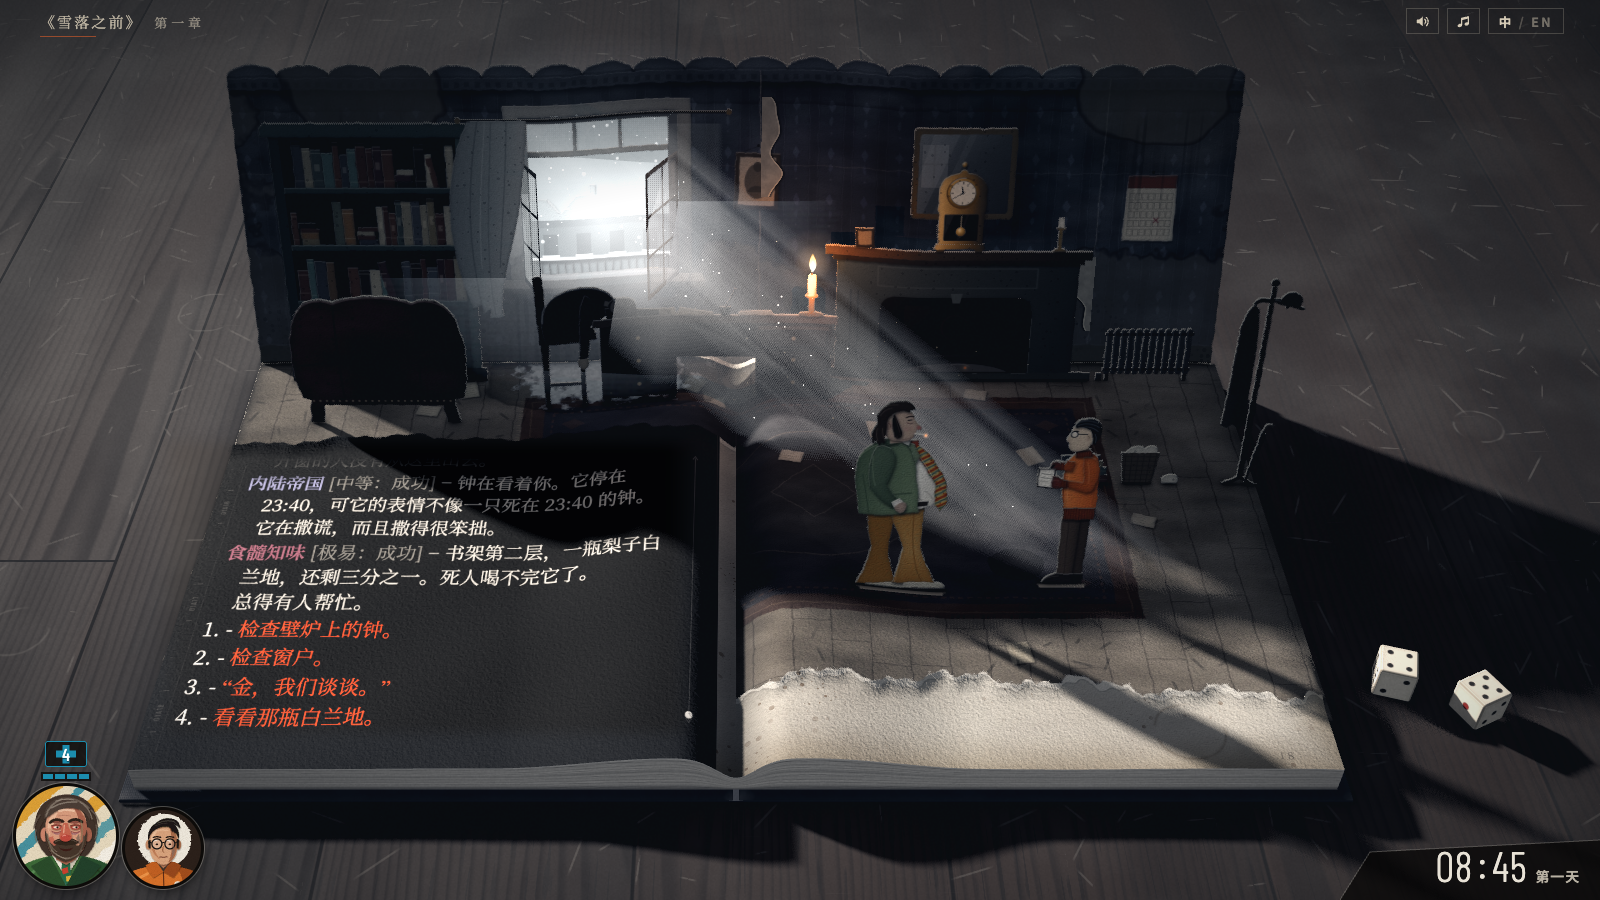
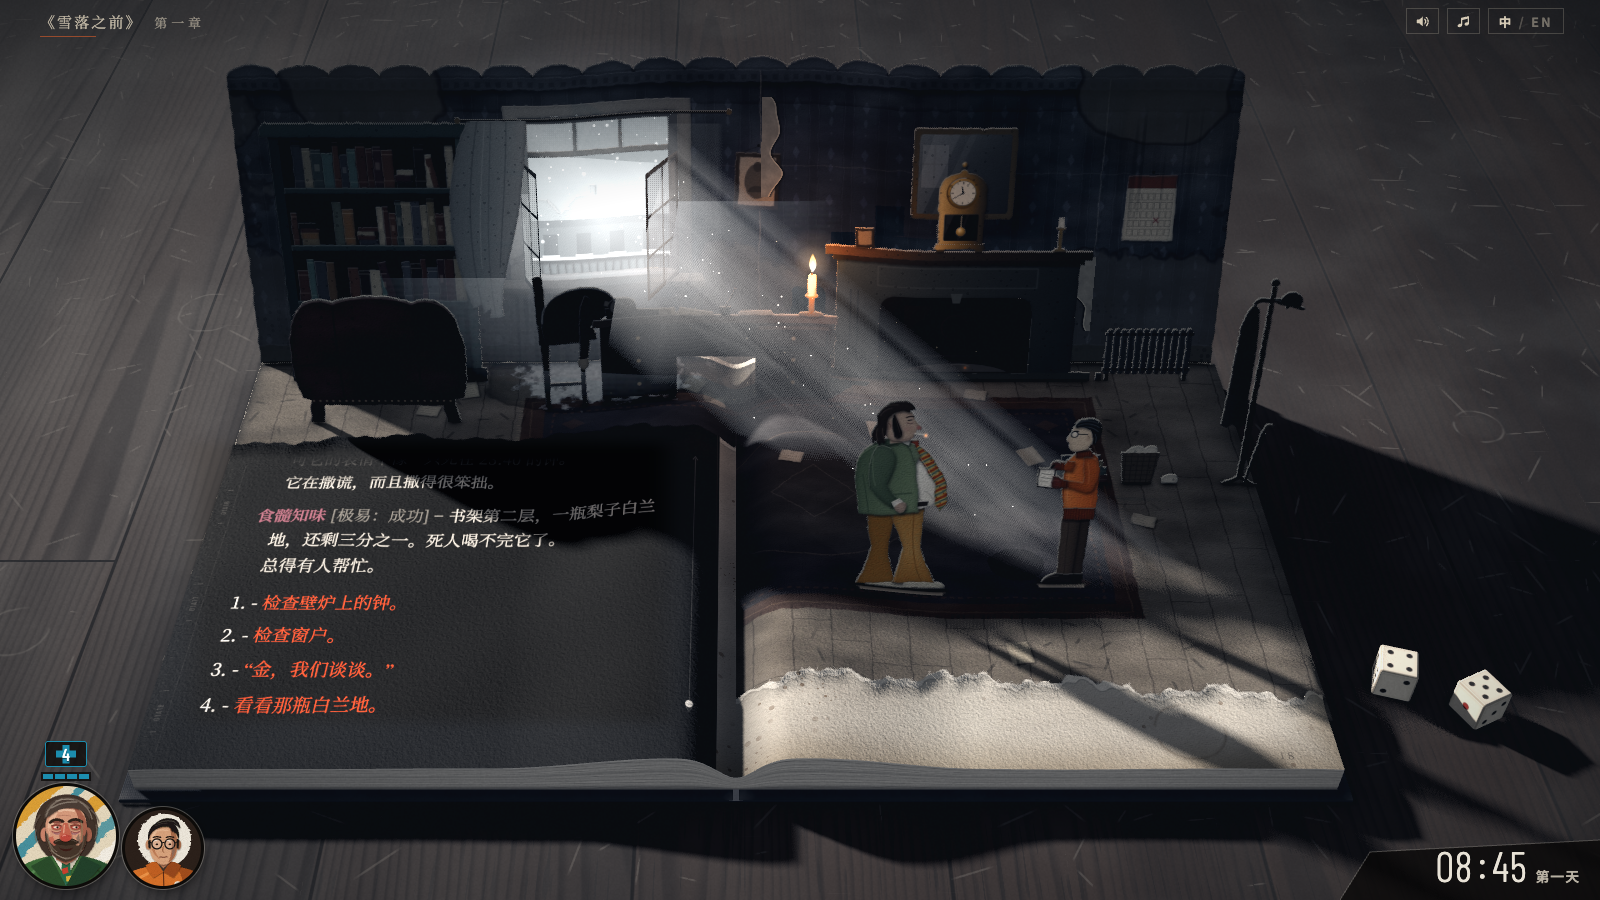
docs: the panel's type and the HUD's corners (ui.md 3.3-3.4), regenerated captures

Changed region(s): [[0.125, 0.5289, 0.4062, 0.8089]]

diff --git a/docs/handoff.md b/docs/handoff.md
@@ -46,9 +46,12 @@
   - 默认参数下画面与此前逐像素一致。
 - 第六轮（用户反馈：「`?look=winter&ui=de` 这个组合还不错，但有几个 UI 似乎没有实际用途。油画直接用在画面上效果并不好」）：
   - 冬日与原作界面改为默认。`?ui=book` 回到书页排法，`?look=warm` 回到暖色绘本，`?look=noir` 为夜；`?still&ui=book&look=warm` 与此前默认的静帧逐像素一致。
-  - HUD 只留本章用得上的部分：头像（说话者）、士气、时钟、技能标签与检定横幅。去掉生命（本章没有生命规则）、角色、物品、思维阁图标（不能点击）、日志图标与线索角标（与桌上线索卡堆重复）、托盘上的胶片编码。原作界面下桌上不再放纸心，士气只显示在 HUD 上：失去时横幅、下降音、格子逐个熄灭；悬停十字框显示士气提示。见 `docs/ui.md` 3.3 节。
+  - HUD 只留本章用得上的部分：头像（说话者）、士气、时钟与检定横幅。去掉生命（本章没有生命规则）、角色、物品、思维阁图标（不能点击）、日志图标与线索角标（与桌上线索卡堆重复）、托盘上的胶片编码。原作界面下桌上不再放纸心，士气只显示在 HUD 上：失去时横幅、下降音、格子逐个熄灭；悬停十字框显示士气提示。见 `docs/ui.md` 3.3 节。
   - 油画后期整体移除（代码、文档与截图），不再作为候选。原因：滤镜盖在整帧上，纸片、文字与桌面一起被涂抹，失去立体书的材质与清晰度。若之后仍要油画感，应画进素材（墙纸、窗外远景等纹理），不要做成整帧后期。
   - `tools/play.mjs` 新增 `--query`，在额外的页面参数下通关（例如 `--query "ui=book&look=warm"`）。
+  - 背景音乐再降约 10 dB（PR #10）。
+  - 深色面板的排版：字号小约一成（中文 22），行距 1.66 倍，两条日志之间空约 0.4 行，文字栏四周的边距加宽（`docs/ui.md` 3.4 节）。
+  - 去掉内心声音标签：用户认为「检定信息在书上弹出看起来不太真实」。平面的 HTML 标签叠在倾斜的书页上，看起来是贴上去的；技能名本来就按属性颜色印在日志里。
 - 本文件第 3–8 节描述合并后的 `main`。
 
 ## 3. 环境与命令
@@ -90,7 +93,7 @@
 | 立体层的铰接行与后倾角 | `src/scene/popup.ts` 的 `PIECES` |
 | 哈里与金的位置、大小 | `src/scene/puppets.ts` 的 `PUPPETS` |
 | 桌面道具（线索卡堆、纸心、骰子） | `src/scene/tabletop.ts` 的 `TABLE`；线索卡落点与尺寸在 `src/scene/lead.ts` 的 `DROP`、`FILED`。纸心只在 `?ui=book` 下出现 |
-| 日志字号与行高 | `src/page/layout.ts` 的 `SIZES`；文字栏范围 `textColumn`；纵向拉伸按取景取 `VIEWS[n].ink`（`src/main.ts` 的 `INK_STRETCH`） |
+| 日志字号与行高 | `src/page/layout.ts` 的 `SIZES`（书页排法）与 `SIZES_DE`（深色面板：字号、行距、段距 `gap`、选项间距 `optionGap`）；文字栏范围与边距 `textColumn`；纵向拉伸按取景取 `VIEWS[n].ink`（`src/main.ts` 的 `INK_STRETCH`） |
 | 打字速度、标点停顿 | `src/play/log.ts` 的 `TYPE_MS`、`PAUSES`；逐段停顿规则在 `src/play/director.ts` |
 | 灯光 | `src/scene/lights.ts`（半球光、左侧主光、蜡烛、窗光、台灯） |
 | 主光软阴影 | `src/scene/penumbra.ts`；光源角半径 `angle`（度）与最大半影 `max`（世界单位）在 `lights.ts` 调用 `softShadows` 处 |
@@ -106,7 +109,7 @@
 | 背景音乐 | 录音 `public/audio/elysium.mp3`；音量 `VOLUME`、回忆时的低通与音量 `COLD`、淡入淡出 `FADE` 在 `src/audio/music.ts`；剧情钩子经 `createCues` 的 `onCue` 回调接入。说明见 `docs/music.md` |
 | 音效 | 配方、音量与混响在 `src/audio/sfx.ts` 的 `createBank`（每个音效一段，按名称 `SoundName` 调用）；触发点：`src/play/log.ts` 的 `onType`（写字）、`src/play/director.ts`（继续、选择、内心声音、检定结果）、`src/scene/dice.ts` 的 `CONTACTS`（骰子落桌）、`hearts.ts`、`lead.ts`、`cues.ts`（纸片、脚步、窗扇、钟、风、蜡烛、钟摆） |
 | 纸偶版本 | `assets/art/harry-vN.svg`、`kim-vN.svg`（与原来的纸偶同样的 `data-*` 属性）；`?cast=N` 在 `src/main.ts` 加载后把 `art.harry`、`art.kim` 换成选中的版本，其余模块不需要改 |
-| 原作界面（默认；`?ui=book` 为书页排法） | 开关 `src/ui.ts`；日志的深色面板排版 `src/page/layout.ts` 的 `DE` 与 `painter.ts`；HUD `src/play/hud.ts`（头像、士气、时钟、技能标签、横幅）、头像 `src/play/portraits.ts`；样式在 `index.html` 的 `[data-ui]` 下；士气显示在 HUD 还是纸心由 `src/main.ts` 的 `morale` 决定。说明见 `docs/ui.md` |
+| 原作界面（默认；`?ui=book` 为书页排法） | 开关 `src/ui.ts`；日志的深色面板排版 `src/page/layout.ts` 的 `DE` 与 `painter.ts`；HUD `src/play/hud.ts`（头像、士气、时钟、横幅）、头像 `src/play/portraits.ts`；样式在 `index.html` 的 `[data-ui]` 下；士气显示在 HUD 还是纸心由 `src/main.ts` 的 `morale` 决定。说明见 `docs/ui.md` |
 | 氛围预设（默认冬日；`?look=noir|warm`） | 预设参数 `src/scene/mood.ts`；光束与浮尘 `shaft.ts`；脏旧 `grime.ts`（各纸片按自身坐标生成污渍）；在剧本指令读取灯光基准值之前生效。说明见 `docs/look.md` |
 | 原作风格预设 | 开关 `src/style.ts`；预设 1 在 `src/page/layout.ts`、`painter.ts`、`src/play/log.ts` 与 `index.html` 的 `data-style` 样式；预设 2 在 `src/scene/palette.ts` 与 `post.ts`；预设 3 在 `src/scene/details.ts`。参考与取舍见 `docs/style-refs.md` |
 
@@ -151,6 +154,8 @@
 | 背景音乐用用户提供的录音 | 用户希望用「Whirling-In-Rags」风格的曲子，由用户自行制作或取得并提供文件。此前的原创合成曲已删除。仓库公开，音频文件随仓库与部署公开 |
 | 默认改为冬日光线与原作界面 | 用户认为此前的画面太温馨、原作风格体现不够；第五轮的候选里选定 `?look=winter&ui=de` |
 | HUD 只放本章用得上的元素 | 用户指出几个 UI 没有实际用途。生命、工具栏、胶片编码没有对应的玩法；士气原先同时显示在纸心与 HUD 上，冬日光下纸心又看不清，改为只在 HUD 上 |
+| 书上不叠加 HUD 元素 | 内心声音标签叠在倾斜的书页上，不随透视与光照变化，用户认为不真实；HUD 只在画面四角 |
+| 深色面板用更小的字与更宽的行距、段距、边距 | 用户要求；此前几轮为了可读性放大过日志，密度偏高 |
 | 不做整帧油画后期 | 用户认为油画直接用在画面上效果不好：滤镜把纸片、文字与桌面一起涂抹，立体书的材质与清晰度都丢了 |
 
 ## 7. 用户偏好
@@ -166,6 +171,8 @@
   - 物件悬停要有提示。
   - 画面不要太温馨，要有原作的冷峻与破败感（第五轮）。
   - 界面上每个元素都要有实际用途，装饰性的 UI 去掉（第六轮）。
+  - 书上不要弹出平面的界面元素：屏幕空间的 HUD 只放画面四角，书上或桌上的信息要印进书页或做成实物（第六轮）。
+  - 日志的字可以小一些，行距、段距、页边距要明显（第六轮）。
   - 不要把油画滤镜直接盖在整帧上（第六轮）。
 - 人物形象、性格与语言风格采用原作。只是 Demo，不考虑版权。
 - 工作流：在分支上开发，开 PR；本地检查（`npm test`、`build`、`shot`、`play`）通过后直接合入 `main`，不停在 PR 等待审阅，由 Vercel 部署。

diff --git a/README.md b/README.md
@@ -33,7 +33,7 @@ npm test         # 对话引擎的单元测试
 
 - **画面**：相机模拟坐在桌前读书：眼睛比桌面高约 47 cm，离书的中心约 64 cm，从书的中心看约 45° 仰角。书前留出一截桌面，桌面木板由近及远，和书的两条侧边汇向同一个消失点。整本书和立体书房完整入画，四周露出胡桃木桌面。左页顶层纸撕到约四分之一深度，撕口后方的地板上立着书架、壁炉、书桌与扶手椅，撕口以下是对话日志。右页顶层纸撕到接近页尾，房间地板一直铺到那里，哈里与金站在房间中央的地毯上。书右侧的桌面上从远到近放着线索卡堆与两枚圆角纸骰。窗外下着雪，雪只在窗洞里可见。
 - **冬日光线**（默认，`docs/look.md`）：低角度的冬日阳光从窗洞射入，带灰尘的光束横过房间，长而硬的蓝灰影落在房间与桌面上；台灯关着，蜡烛是唯一的暖色；降饱和的冷调色，墙纸、地板与桌面有污渍与磨损。`?look=noir` 为夜，`?look=warm` 为此前的暖色绘本。
-- **原作界面**（默认，`docs/ui.md`）：左页日志印在原作的深色对话面板上（白色衬线字、粗体说话者、按属性着色的技能名、检定纸条、青色「继续」条）。画面四周是原作的 HUD，只放本章用得上的：左下哈里与金的圆形头像（说话者的外圈变亮），哈里头像上方是士气的蓝色十字数字框与四格；右下是时钟，现在的时间每出现一行台词前进一分钟，回忆时显示昨晚的时间。技能开口时面板顶边弹出技能名标签，骰子停下时出现「检定成功 / 失败」横幅。`?ui=book` 为此前的书页排法：日志印在纸上，士气是桌上的四颗对折纸心，没有 HUD。
+- **原作界面**（默认，`docs/ui.md`）：左页日志印在原作的深色对话面板上（白色衬线字、粗体说话者、按属性着色的技能名、检定纸条、青色「继续」条），字号较小，行距、段距与边距较宽。画面四周是原作的 HUD，只放本章用得上的：左下哈里与金的圆形头像（说话者的外圈变亮），哈里头像上方是士气的蓝色十字数字框与四格；右下是时钟，现在的时间每出现一行台词前进一分钟，回忆时显示昨晚的时间。骰子停下时，骰子下方出现「检定成功 / 失败」横幅。书上不叠加平面的界面元素。`?ui=book` 为此前的书页排法：日志印在纸上，士气是桌上的四颗对折纸心，没有 HUD。
 - **质感**：窗侧主光的影子在落脚处清晰、随距离变软（PCSS），墙在桌面上的影子是柔和的渐变。立着的纸片都有卡纸厚度，朝上的切边露出一条浅色纸芯。木桌由着色器按世界坐标绘制：木板、年轮、导管与板缝，任何分辨率都清晰。
 - **书页打开**：立体书房先正面朝下折在书页上，露出素色纸背，再由后往前逐排翻起，纸偶最后立起。墙立起时窗扇打开、窗外开始下雪，书桌立起后蜡烛点亮。
 - **日志逐字打出**：中文每字 55 毫秒，英文每字符 28 毫秒；逗号类标点后多停 120 毫秒（英文 80），句末标点后多停 260 毫秒（英文 180）；内心声音在名字后停 0.3 秒。打字时点击补全当前一段。每段打完停下，面板下方出现「继续」条（`?ui=book`：左页右下角闪烁「▼ 继续」），点击、空格或回车进入下一段；玩家自己的「你 —」行、紧接选项的最后一段与掷骰行不停。
@@ -61,7 +61,7 @@ npm test         # 对话引擎的单元测试
 - `src/page/`：`layout` 日志排版（说话者 + 破折号、结果标签、编号选项、置灰与红色检定标记；中文按字断行、避头尾，英文按词；自下而上锚定），`painter` 画布绘制（按取景纵向拉伸，默认 1.21 倍，抵消斜看纸面造成的字形压扁）、逐字显示、滚动窗口与撕口处的淡出，`hit` 射线命中选项。
 - `src/audio/`：`music` 背景音乐（`<audio>` 接入 Web Audio 的音量与低通滤波、开关、首次交互启动、剧情钩子），`sfx` 音效（合成配方、声像与混响、开关与首次交互启动）。
 - `public/audio/`：背景音乐录音。
-- `src/style.ts`：解析 `?style=`，风格预设的开关；`src/ui.ts`：解析 `?ui=`。`src/play/hud.ts`、`portraits.ts`：原作界面的 HUD（头像、士气、时钟、技能标签与检定横幅）与自绘的圆形头像。
+- `src/style.ts`：解析 `?style=`，风格预设的开关；`src/ui.ts`：解析 `?ui=`。`src/play/hud.ts`、`portraits.ts`：原作界面的 HUD（头像、士气、时钟与检定横幅）与自绘的圆形头像。
 - `src/engine/`：对话引擎（节点、检定、旗标、士气、白色重试与红色一次性），只产出节拍，不做动画。
 - `src/content/`：`schema` 类型（design.md 7.3），`skills` 九项技能、属性色、难度与标签格式，`study` 第一章全部节点，`study-clock` 风格板瞬间，`ui` 界面文字（时间标记、新线索、继续、第一章 完、成功率等），`hotspots` 悬停提示的名称与描述。
 - `assets/art/*.svg`：每张纸片一个矢量源文件，撕边与纸纹滤镜写在文件里，只在烘焙时运行。`floor-papers.json` 是地板上散落纸页的位置与大小，地板脚本与悬停提示共用。纸偶 `harry.svg`、`kim.svg` 为手绘，根元素的 `data-*` 属性给出脚底、立脚范围与烟头位置；`harry-v1`…`v4`、`kim-v1`…`v4` 是按原作不同参考图画的候选版本（`docs/cast.md`）。M1 新增的手绘纸片：`casement` 窗扇，`clock-hour`、`clock-minute`、`pendulum` 钟的指针与钟摆，`stairs` 楼梯与平台，`dog`、`dog-head` 房东太太的狗，`marek` 马雷克的剪影，`heart`、`heart-empty` 士气心形，`lead-card` 新线索卡片；`far-snow`、`sill-snow` 由 `extract-art` 从旧风格板拆出。地板（含地毯与散落纸页）与两张顶页的撕口也由 `extract-art` 生成，参数见脚本开头。
